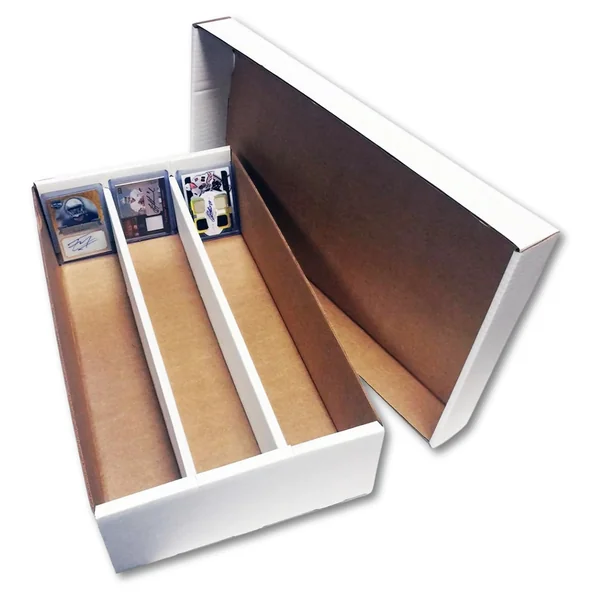
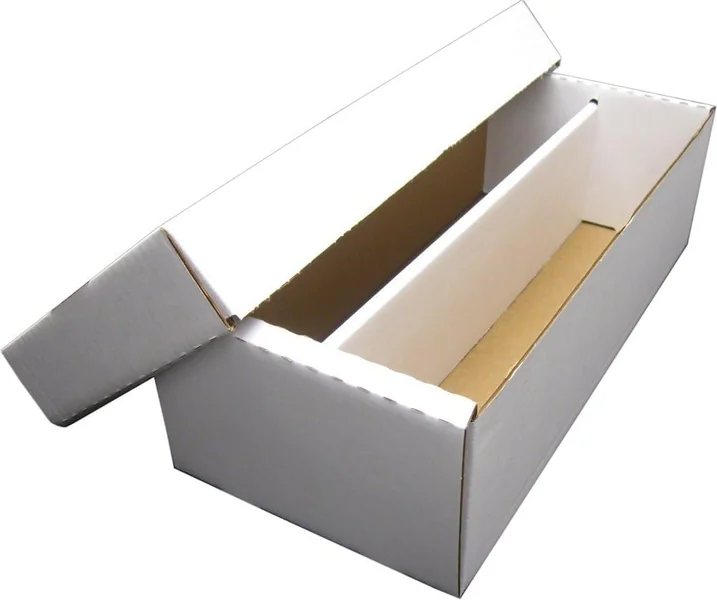
Use real photo for centering tool and true 2-row BCW shoebox photo

diff --git a/supplies.html b/supplies.html
@@ -848,18 +848,8 @@
         
         <div class="bg-brand-card rounded-2xl border border-brand-border p-5 sm:p-6 flex flex-col justify-between hover:border-brand-primary/50 transition-all shadow-xl group">
           <div class="space-y-3">
-            <!-- 6s Field Demo Micro-Video Loop -->
-            <div class="relative w-full h-44 rounded-xl overflow-hidden bg-slate-950 border border-brand-border group/vid">
-              <video 
-                autoplay loop muted playsinline 
-                poster="assets/images/supplies/card-centering-ruler.webp" class="w-full h-full object-cover">
-                <source src="assets/video/supplies/centering_ruler_demo.webm" type="video/webm">
-                <source src="assets/video/supplies/centering_ruler_demo.mp4" type="video/mp4">
-              </video>
-              <div class="absolute bottom-2 left-2 flex items-center gap-1.5 bg-brand-dark/90 backdrop-blur-sm px-2 py-0.5 rounded text-[10px] font-mono text-slate-300 border border-brand-border">
-                <span class="w-1.5 h-1.5 rounded-full bg-brand-primary animate-pulse"></span>
-                <span>Field Demo (0:06)</span>
-              </div>
+            <div class="relative w-full h-44 rounded-xl overflow-hidden bg-white border border-brand-border p-3 flex items-center justify-center">
+              <img src="assets/images/supplies/card-centering-ruler.webp" alt="Card Centering Tool &amp; Grading Ratio Ruler" loading="lazy" class="max-h-full max-w-full w-auto h-auto object-contain group-hover:scale-105 transition-transform duration-300">
             </div>
 
             <div class="flex items-center justify-between gap-2">
